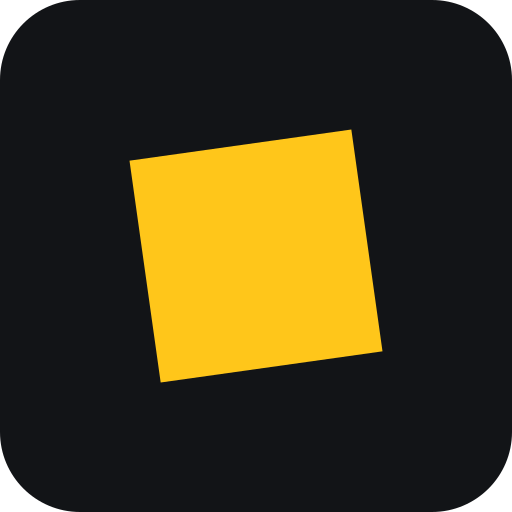
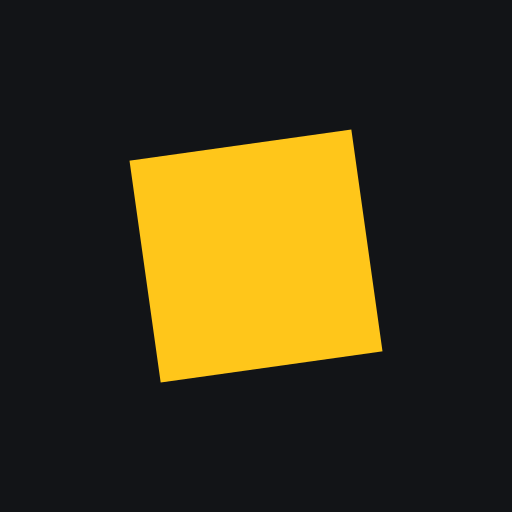
Square marks, and the square alone in yellow and in black
From FC-Public-Media/brand ca76836, by its render.py: icon.svg and icon-inverted.svg lose their
rounded plates (platforms cut their own shape), and site/assets/img gains square-signal.svg and
square-black.svg (with 512 PNGs), the square with no plate in the same box and place.
bin/test_brand.py checks the two new marks and that no mark is rounded.

diff --git a/bin/test_brand.py b/bin/test_brand.py
@@ -45,10 +45,13 @@ class Brand(unittest.TestCase):
 
     def test_the_marks_are_the_brand(self):
         for name, fills in (("icon.svg", {BRAND["colours"]["masthead"], BRAND["colours"]["signal"]}),
-                            ("icon-inverted.svg", {BRAND["colours"]["signal"], BRAND["black"]})):
+                            ("icon-inverted.svg", {BRAND["colours"]["signal"], BRAND["black"]}),
+                            ("square-signal.svg", {BRAND["colours"]["signal"]}),
+                            ("square-black.svg", {BRAND["black"]})):
             svg = (ROOT / "site/assets/img" / name).read_text()
             self.assertEqual({c.lower() for c in re.findall(r'fill="(#[0-9a-fA-F]{6})"', svg)},
                              {c.lower() for c in fills}, name)
+            self.assertNotRegex(svg, r'\brx="', f"{name}: plates are square; platforms cut their own shape")
             self.assertIn(f"rotate({BRAND['tilt']} ", svg, name)
 
     def test_no_screen_keeps_a_brand_colour_of_its_own(self):
